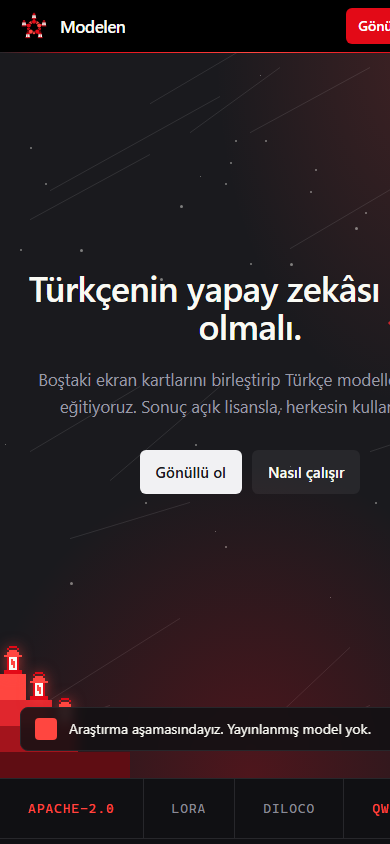
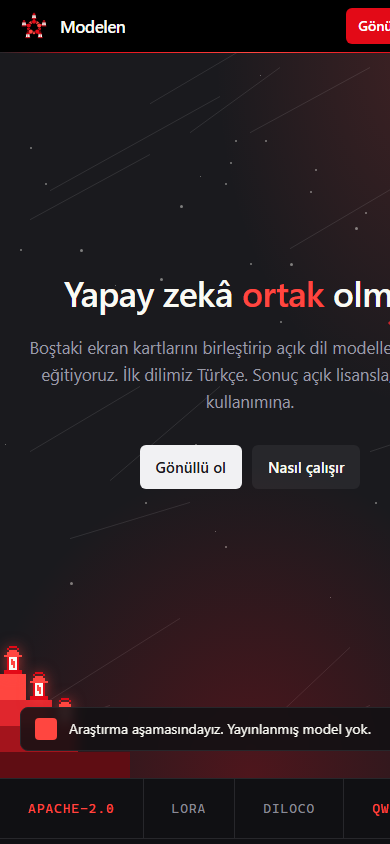
README ve uygulama: dil-bağımsız metinler (uluslararası konumlandırma)
Kapak, slogan ve giriş metni 'Türkçe için' yerine açık/topluluk sahipli yapay zekâ; Türkçe ilk dil olarak anılır. Uygulama alt başlığı güncellendi. Ekran görüntüleri ve GIF'ler güncel site/uygulama ile yeniden üretildi. Olgusal ölçüm ve veri ifadeleri korundu.

Changed region(s): [[0.0615, 0.3081, 1.0, 0.4929], [0.3692, 0.5237, 0.6154, 0.5853], [0.6769, 0.5237, 0.8923, 0.5853]]

diff --git a/uygulama/src/main.rs b/uygulama/src/main.rs
@@ -1,5 +1,5 @@
 #![cfg_attr(not(debug_assertions), windows_subsystem = "windows")]
-//! Modelen: gönüllü GPU istemcisi + Türkçe kodlama yardımcısı, tek masaüstü uygulaması.
+//! Modelen: gönüllü GPU istemcisi + kodlama yardımcısı, tek masaüstü uygulaması.
 
 mod ayar;
 mod dizin;
@@ -205,7 +205,7 @@ impl Uygulama {
                 ui.add_space((ui.available_height() * 0.03).max(6.0));
                 ui.add(egui::Image::new(&self.logo).fit_to_exact_size(egui::vec2(110.0, 110.0)));
                 ui.label(RichText::new("modelen").size(30.0).strong().color(KIRMIZI));
-                ui.label("GPU'nuzu ortak Türkçe model eğitimine verin.");
+                ui.label("GPU'nuzu ortak model eğitimine verin.");
                 ui.add_space(16.0);
                 let d = 200.0;
                 let (rect, yanit) = ui.allocate_exact_size(egui::vec2(d, d), egui::Sense::click());
@@ -518,7 +518,7 @@ impl Uygulama {
         egui::CentralPanel::default().show(ctx, |ui| {
             egui::ScrollArea::vertical().show(ui, |ui| {
                 ui.heading("Gönüllü GPU");
-                ui.label("GPU'nuzu ortak Türkçe model eğitimine verin. Yalnızca LoRA adaptörü (~40 MB) ağa çıkar; taban model ve veri yerelde kalır.");
+                ui.label("GPU'nuzu ortak model eğitimine verin. Yalnızca LoRA adaptörü (~40 MB) ağa çıkar; taban model ve veri yerelde kalır.");
                 ui.horizontal(|ui| {
                     ui.label(RichText::new("GPU:").strong());
                     ui.label(&self.gpu);

diff --git a/docs/gorsel_uret.py b/docs/gorsel_uret.py
@@ -47,8 +47,8 @@ def kapak():
     lg = logo(430)
     im.paste(lg, (110, (h - 430) // 2), lg)
     d.text((600, 150), "modelen", font=font(150, True), fill=KIRMIZI)
-    d.text((606, 330), "Türkçe için, topluluğun birlikte eğittiği açık yapay zekâ.", font=font(40), fill=BEYAZ)
-    d.text((606, 392), "Boştaki ekran kartları  ·  LoRA + DiLoCo  ·  Apache-2.0", font=font(30), fill=GRI)
+    d.text((606, 330), "Topluluğun birlikte eğittiği açık yapay zekâ.", font=font(40), fill=BEYAZ)
+    d.text((606, 392), "Boştaki ekran kartları  ·  LoRA + DiLoCo  ·  Apache-2.0  ·  ilk dil: Türkçe", font=font(30), fill=GRI)
     d.rounded_rectangle((606, 470, 1262, 520), radius=10, outline=(70, 70, 78), width=2)
     d.text((628, 478), "Araştırma aşaması  ·  henüz yayınlanmış model yok", font=font(27), fill=ACIK)
     im.save(os.path.join(A, "kapak.png"), optimize=True)

diff --git a/README.md b/README.md
@@ -1,5 +1,5 @@
 <p align="center">
-  <img src="docs/assets/kapak.png" alt="Modelen: Türkçe için, topluluğun birlikte eğittiği açık yapay zekâ" width="100%">
+  <img src="docs/assets/kapak.png" alt="Modelen: topluluğun birlikte eğittiği açık yapay zekâ" width="100%">
 </p>
 
 <p align="center">
@@ -11,7 +11,7 @@
 </p>
 
 <p align="center">
-  <b>Boştaki ekran kartlarını birleştirip Türkçe modelleri birlikte eğitiyoruz. Sonuç açık lisansla, herkesin kullanımına.</b><br>
+  <b>Boştaki ekran kartlarını birleştirip açık dil modellerini birlikte eğitiyoruz. İlk dilimiz Türkçe. Sonuç açık lisansla, herkesin kullanımına.</b><br>
   <sub>Dürüst başlangıç: bu bir araştırma projesi. Yayınlanmış bir modelimiz henüz yok; bu depo, şimdiye kadar <i>ne yaptığımızı, ne ölçtüğümüzü ve ne ölçemediğimizi</i> gösteriyor.</sub>
 </p>
 
@@ -27,12 +27,12 @@
 
 ## Fikir
 
-Türkçe için açık, yerelde çalışabilen ve şeffaf biçimde eğitilmiş dil modellerine ihtiyaç var. Büyük bir sunucu salonumuz yok; ama binlerce insanın bilgisayarında günün çoğunda boş duran ekran kartları var.
+Her dilin açık, yerelde çalışabilen ve şeffaf biçimde eğitilmiş dil modellerine ihtiyacı var. Büyük bir sunucu salonumuz yok; ama binlerce insanın bilgisayarında günün çoğunda boş duran ekran kartları var.
 
 **Modelen**, bu boş GPU'ları gönüllü katkıyla birleştirmeyi hedefliyor:
 
 - 🔓 **Açık:** kod ve model ağırlıkları Apache-2.0. Veri kaynakları ve lisansları açıkça listelenir.
-- 🇹🇷 **Türkçe öncelikli:** Türkçenin eklemeli yapısını ölçerek geliştiriyoruz (tokenizer, bayt başına bit, TurkishMMLU).
+- 🌍 **Dil odaklı, ilk dil Türkçe:** her dilin yapısını ölçerek ilerliyoruz; pilot dilimiz Türkçe (tokenizer, bayt başına bit, TurkishMMLU). Sırada diğer diller var.
 - 🤝 **Topluluk sahipli:** katkılar kayıt altında; para ya da kripto ödülü yok, söz hakkı ve şeffaflık var.
 - 🔒 **Gizliliğe saygılı:** gönüllünün bilgisayarında yalnızca *sabit bir eğitim betiği* çalışır; dosyalara erişmez, keyfi kod çalıştırılmaz.
 - 📉 **Haberleşme dostu:** tüm modeli değil yalnızca küçük bir **LoRA adaptörünü** (~40 MB) taşıyoruz.
@@ -246,7 +246,7 @@ modelen/
 
 ## English summary
 
-**Modelen** is a community effort to train open **Turkish** language models on volunteers' idle GPUs. The approach is **adapter-DiLoCo**: a frozen open base model (Qwen3-0.6B-Base) with a small **LoRA adapter (~40 MB)** trained locally for *H* steps and synchronised only every *H* steps with a coordinator, cutting traffic ~25× with no measurable loss in our small-scale tests.
+**Modelen** is an international community effort to train open language models on volunteers' idle GPUs. **Turkish is our first language**; others follow. The approach is **adapter-DiLoCo**: a frozen open base model (Qwen3-0.6B-Base) with a small **LoRA adapter (~40 MB)** trained locally for *H* steps and synchronised only every *H* steps with a coordinator, cutting traffic ~25× with no measurable loss in our small-scale tests.
 
 **What is here (all small scale, one RTX 4060 laptop):** research scripts and raw results; a working volunteer protocol (coordinator + worker, safetensors only, no pickle); a **Rust desktop app** (one-click "Easy mode", coordinator picker, tray); a static **TR+EN website** and a zero-dependency Python **portal** (registration, coordinator applications with admin approval, profiles — private by default — a short-post feed and moderation).
 
